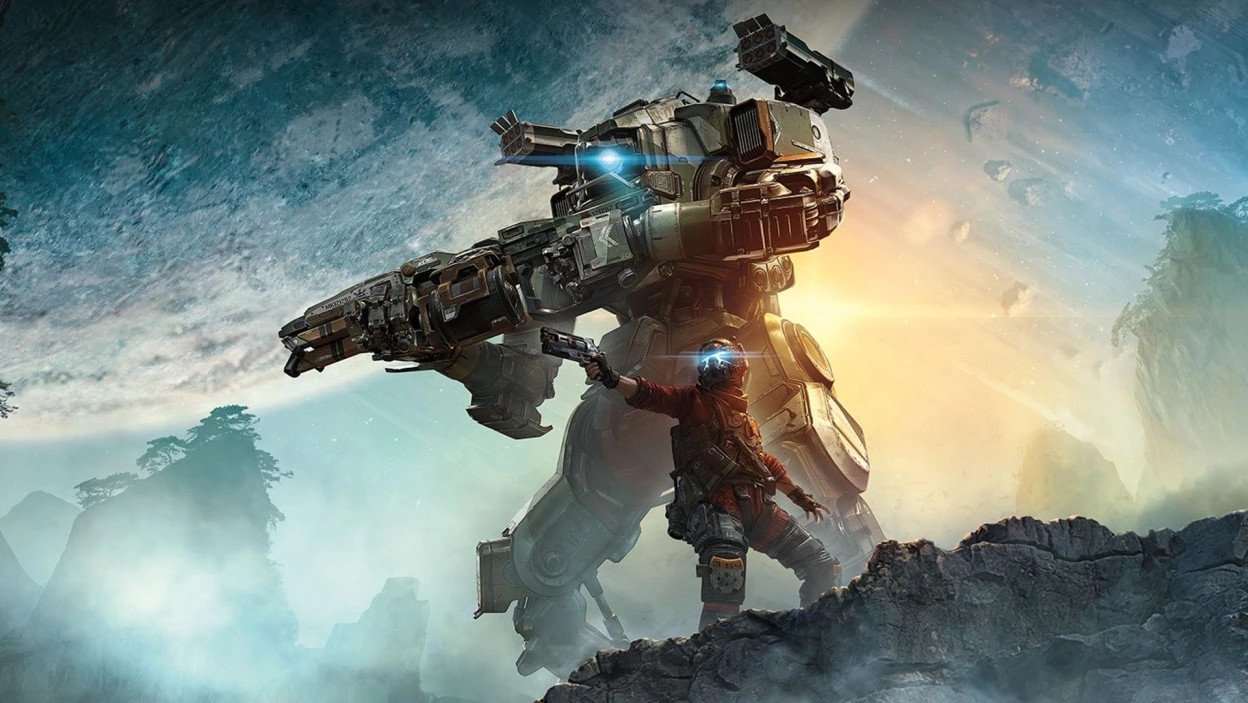
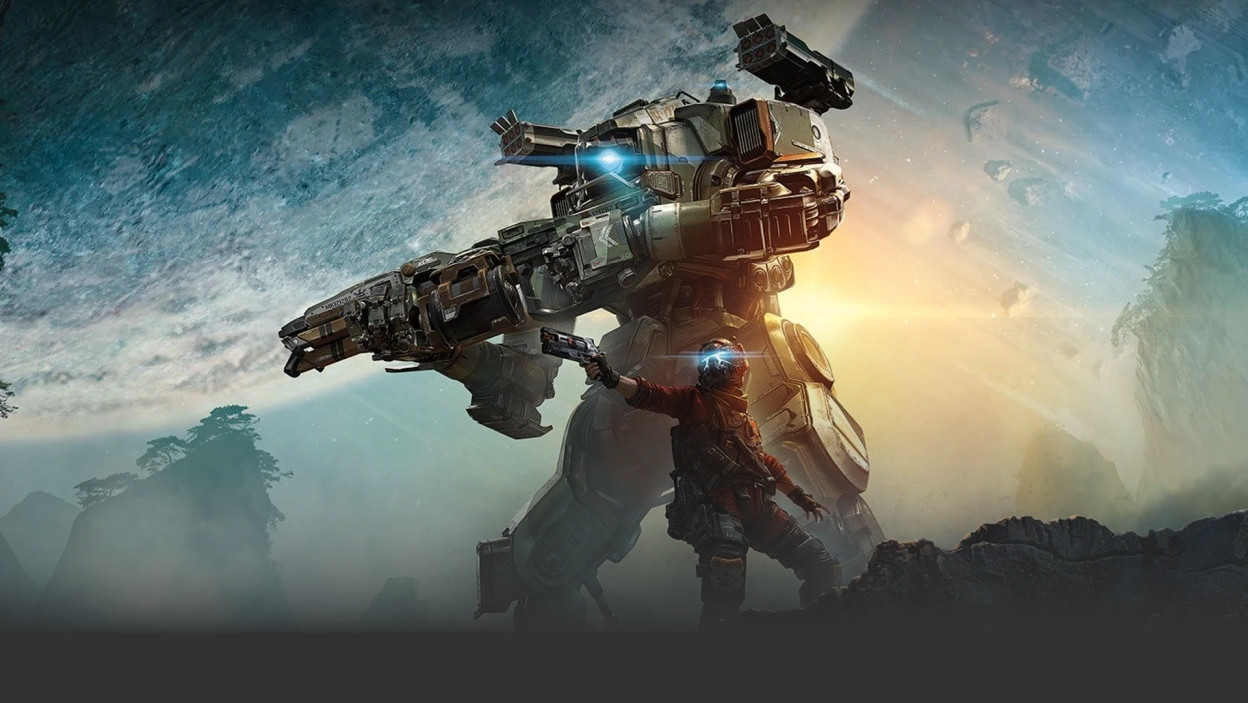
update

diff --git a/about.html b/about.html
@@ -4,7 +4,7 @@
     <meta charset="UTF-8">
     <meta http-equiv="X-UA-Compatible" content="IE=edge">
     <meta name="viewport" content="width=device-width, initial-scale=1.0">
-    <title>TITANFALL 3 | HOME</title>
+    <title>TITANFALL 3 | ABOUT</title>
     <link rel="stylesheet" href="styl.css">
     <script src="script.js"></script>
     <link rel="icon" href="ico2.png">
@@ -12,11 +12,12 @@
 <body>
     <article>
         <h1>
-            Making Titanfall 3 because respawn can't
+            Something about this project
         </h1>
-        <h4>
-            Download soon
-        </h4>
+        <p>Game is being made with Unity 3D engine.</p>
+        <p>It will include wallrunning, double jumping and so on, just like the Titanfall 2 did.</p>
+        <p>This project is being realized by one person so it may take a long time to develop it.</p>
+
     </article>
     <div class="header">
         <div class="expo single bacolor2"><div class="expotext outline" style="font-size:xx-large">TITANFALL 3</div></div>

diff --git a/styl.css b/styl.css
@@ -1,9 +1,13 @@
 body{
-    background-image: url("background.jpg");
-    background-repeat: no-repeat;
-    background-size: 100%;
     font-family: 'helvetica';
+    background-image: url("background.jpg");
+    background-size: 100%;
+    background-repeat: no-repeat;
     color: white;
+    background-color: #323232;
+}
+.background{
+    width: 100%;
 }
 a{
     text-decoration: none;
@@ -138,15 +142,23 @@ article {
     border-bottom-right-radius: 20px;
     font-size: larger;
 }
-footer {
-    position: absolute;
+.footer {
+    position:fixed;
     bottom: 0px;
     background-color: rgb(0, 187, 255);
     text-align: center;
     left: 0%;
     width: 100%;
-    padding-top: 30px;
-    padding-bottom: 30px;
+    padding-top: 20px;
+    padding-bottom: 20px;
     border-top-left-radius: 20px;
     border-top-right-radius: 20px;
+}
+table, th, td {
+    border: 5px solid rgb(65, 98, 147);
+    border-collapse: collapse;
+    padding: 25px 25px;
+}
+p{
+    font-size: 20px;
 }
